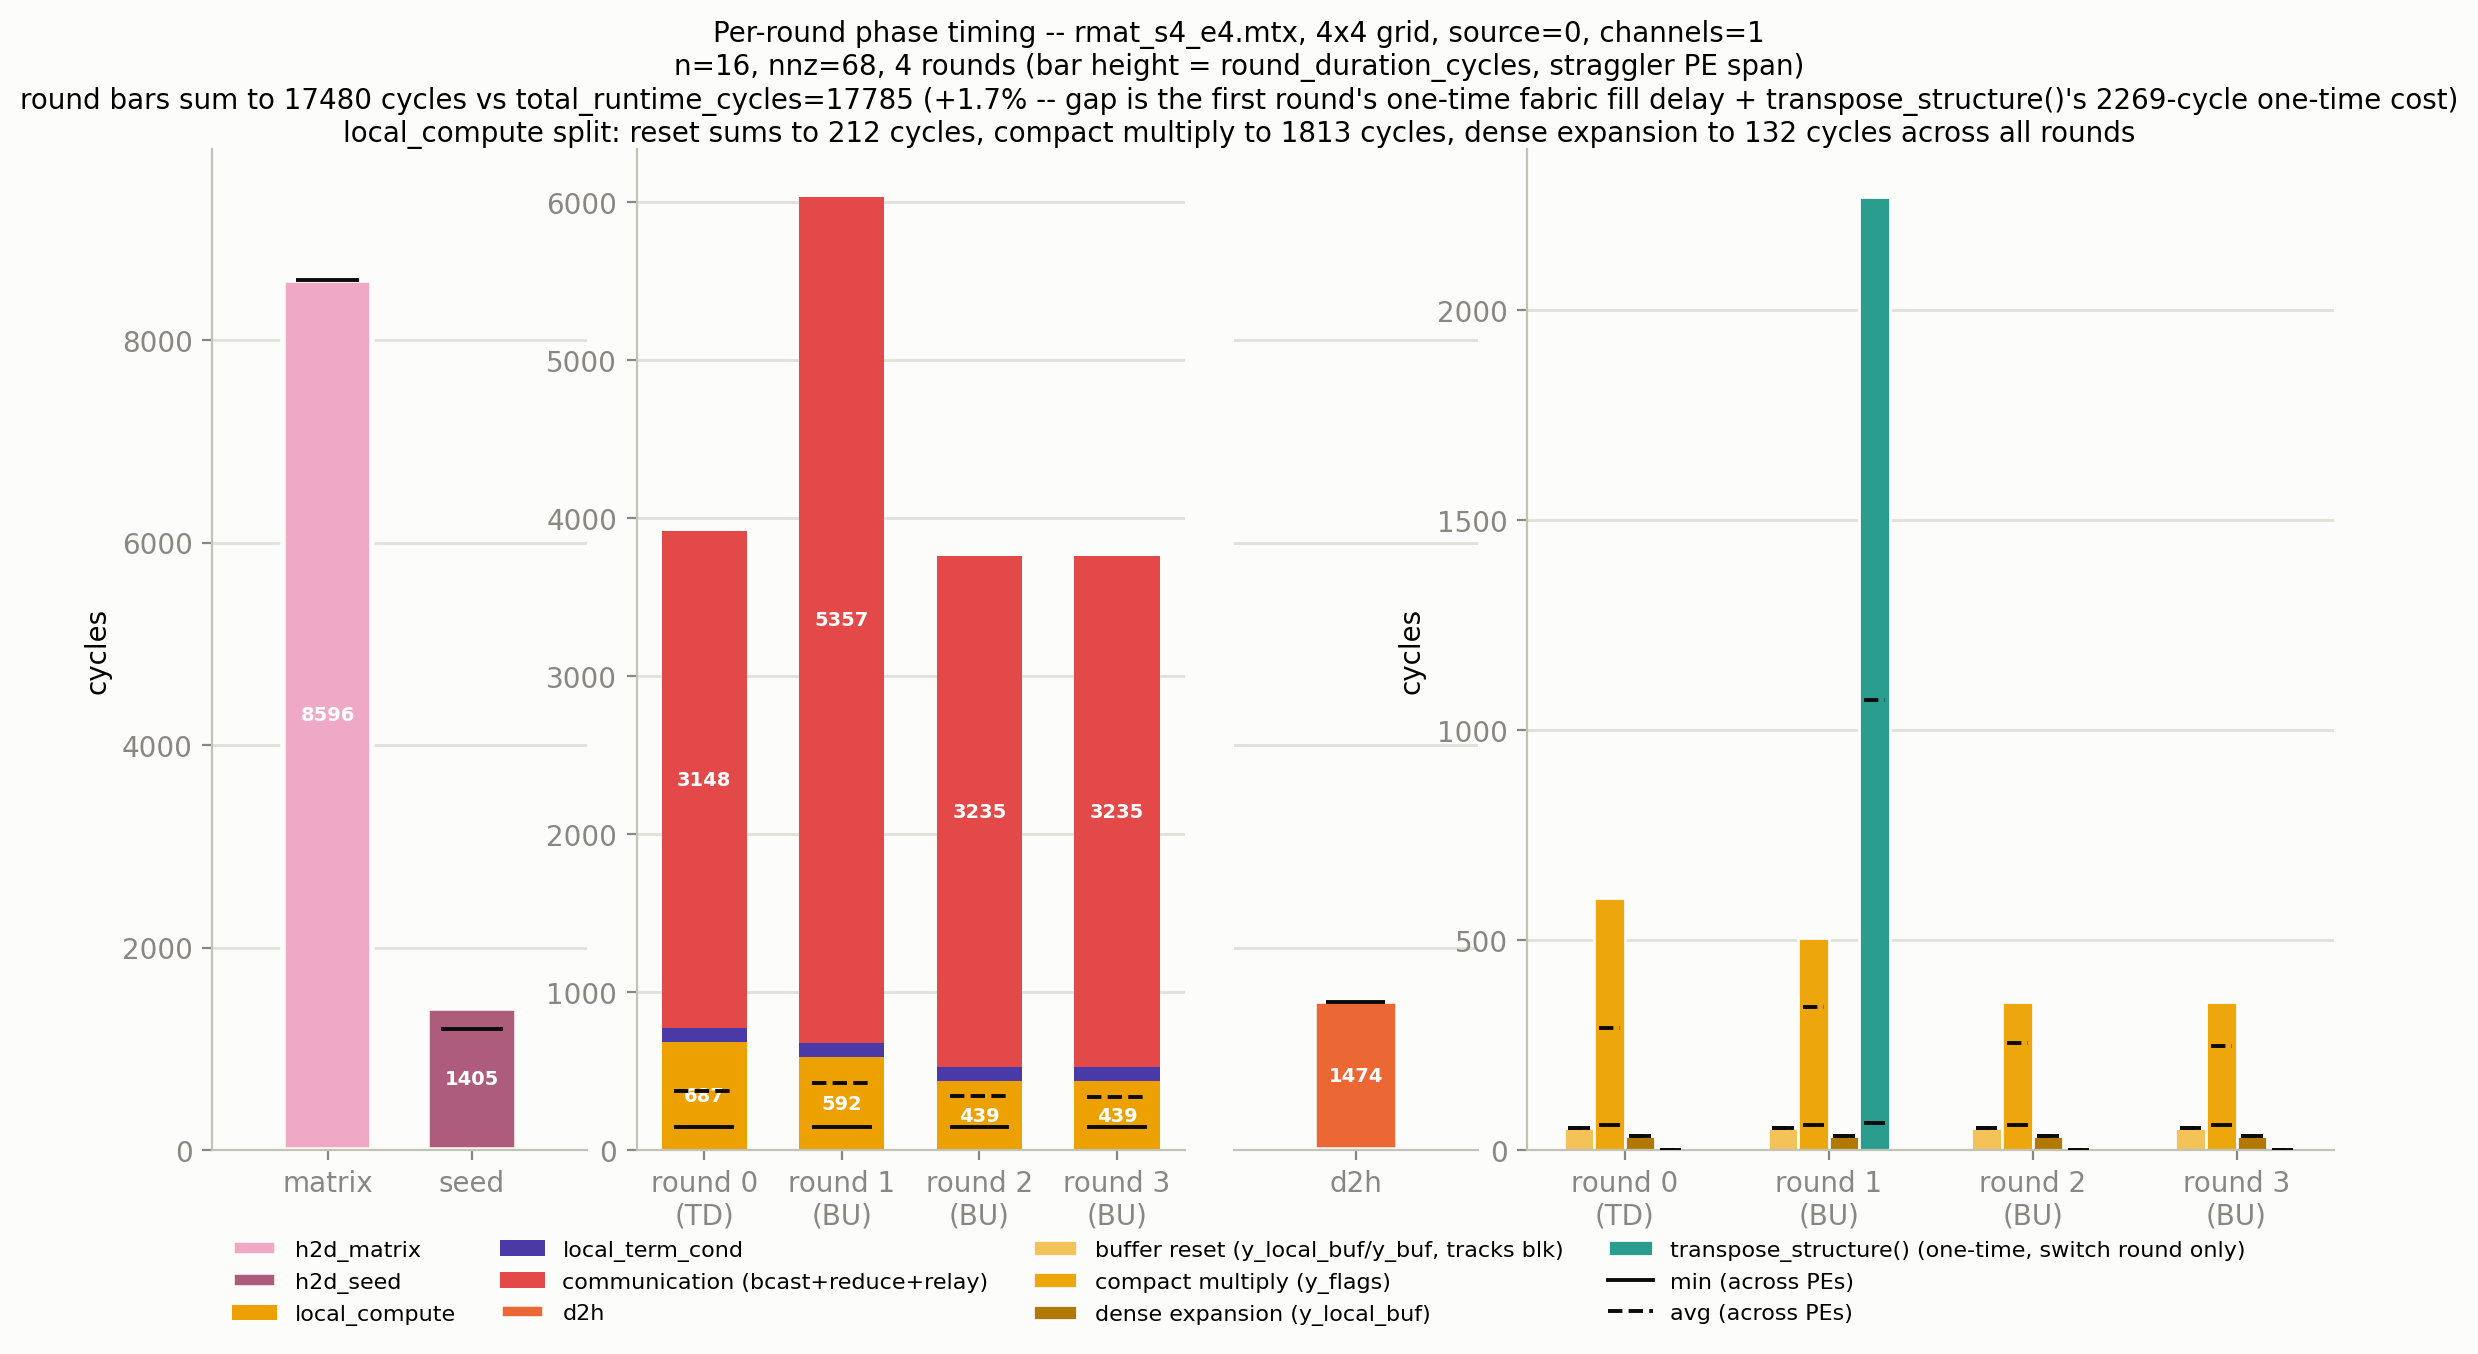
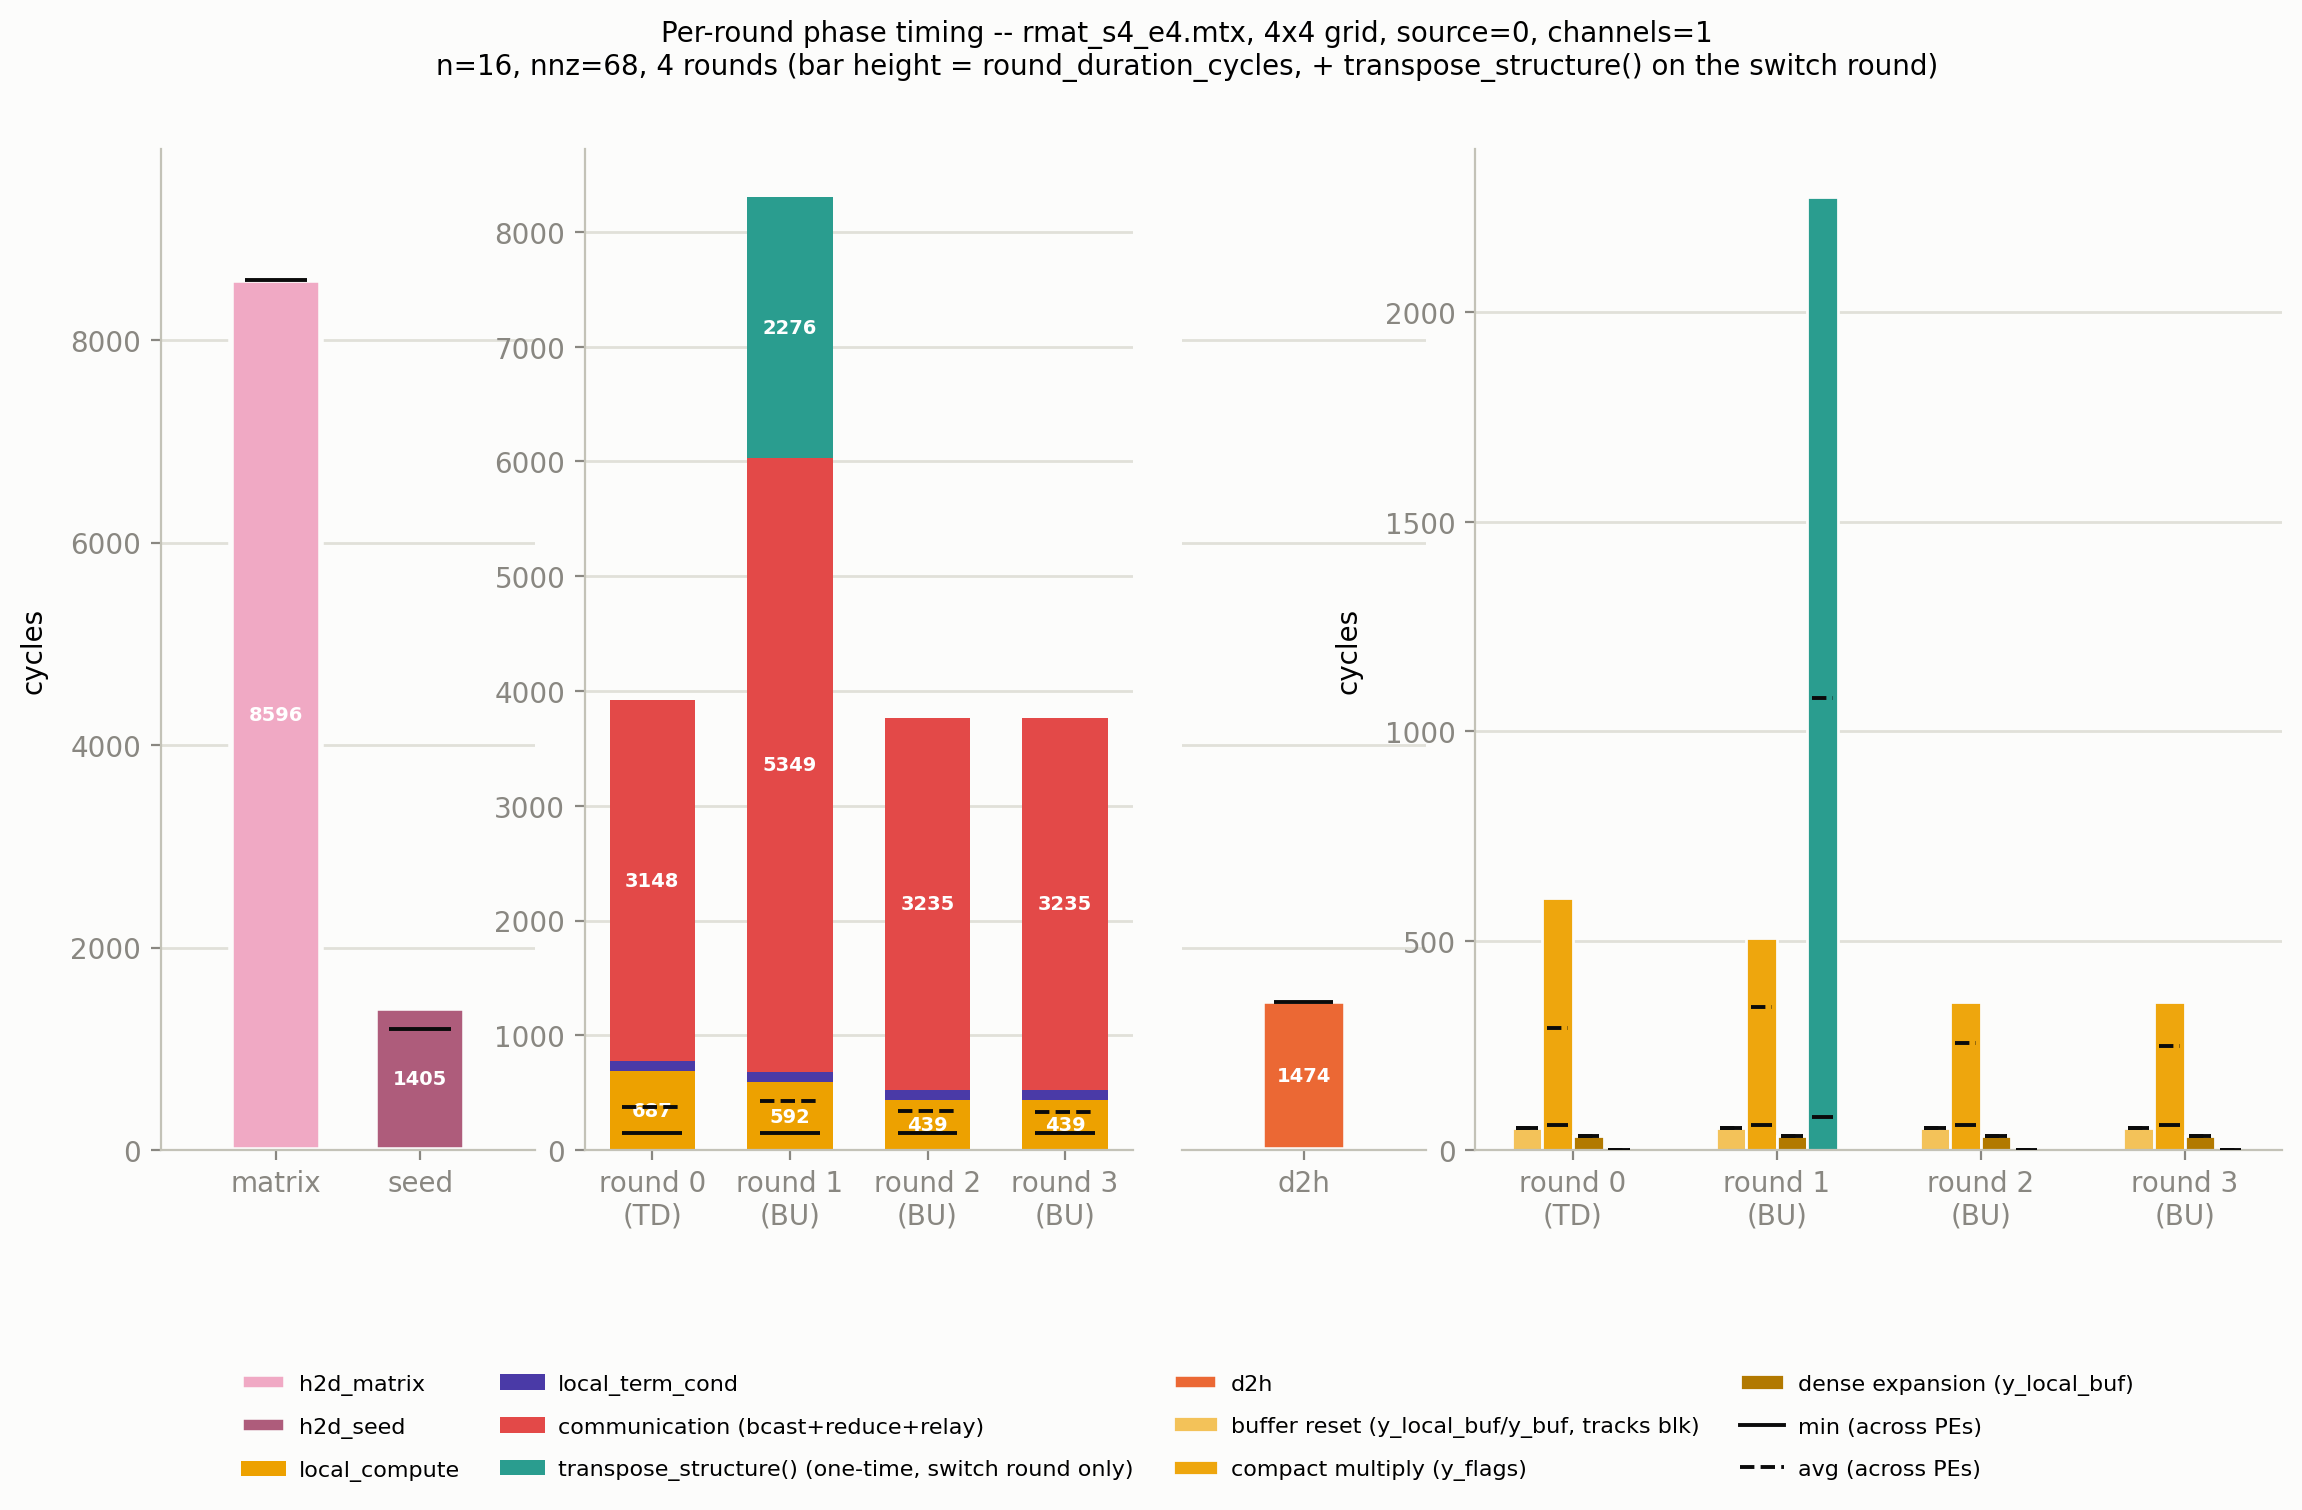
[add] updated timings plot

diff --git a/spmv-hypersparse/bool_diag_spmv/plots/plot_bfs_timing.py b/spmv-hypersparse/bool_diag_spmv/plots/plot_bfs_timing.py
@@ -31,11 +31,15 @@
   [local_compute, local_term_cond, communication] order purely for a
   stable, readable legend, not to claim a literal timeline.
 
-  The suptitle also reports `total_runtime_cycles` (the straggler-PE span
-  from round 0's very first TS_VBCAST_ISSUE to the last round's
-  TS_TERM_COL_BCAST_DONE) next to the sum of the round bars, as a sanity
-  check -- they should be close (the gap is just the first broadcast's own
-  one-time fabric fill delay, not per-round recurring cost).
+  total_runtime_cycles (the straggler-PE span from round 0's very first
+  TS_VBCAST_ISSUE to the last round's TS_TERM_COL_BCAST_DONE) is still in
+  bfs_timing.csv, just not compared against the round bars' own sum in the
+  suptitle any more -- that comparison is inherently noisy once a phase
+  with wide per-PE variance (transpose_structure()) is involved, since each
+  bar segment here is its own independent max-across-PEs and can come from
+  a different PE than total_runtime_cycles' one coherent straggler (see
+  run_gap_diagnostic.py for a worked confirmation this isn't double-
+  counting, just that mismatch).
 
   local_compute's own segment additionally gets two tick-mark indicators
   (solid = min, dashed = avg, both across PEs that round) on top of its
@@ -156,6 +160,16 @@ LOCAL_COMPUTE_SPLIT_PARTS = ["local_compute_reset", "local_compute_compact", "lo
 # bar is empty everywhere but that one round.
 TRANSPOSE_COLOR = "#2a9d8f"  # teal -- distinct from every other hue family in use
 
+# Also stacked directly onto the round-bars panel's own switch-round bar
+# (see plot_timing_row) -- round_duration_cycles (what those bars are built
+# from) brackets TS_VBCAST_ISSUE..TS_TERM_COL_BCAST_DONE, which does NOT
+# span transpose_structure()'s own gap (see bool_pe.csl's
+# term_col_bcast_done()), so without this the round bars would visibly sum
+# to less than total_runtime_cycles -- an unaccounted-for gap the reader
+# has no way to attribute from the bars alone, title text notwithstanding.
+ROUND_SEGMENT_COLORS["transpose"] = TRANSPOSE_COLOR
+ROUND_SEGMENT_LABELS["transpose"] = "transpose_structure() (one-time, switch round only)"
+
 COMPUTE_SPLIT_PARTS = LOCAL_COMPUTE_SPLIT_PARTS + ["transpose"]
 COMPUTE_SPLIT_COLORS = dict(zip(
     LOCAL_COMPUTE_SPLIT_PARTS,
@@ -225,7 +239,6 @@ def plot_timing_row(row, out_path):
   channels = row["channels"]
 
   round_duration = parse_cycle_list(row["round_duration_cycles"]).astype(float)
-  total_runtime_cycles = int(row["total_runtime_cycles"])
   assert len(round_duration) == rounds_completed, (
       f"round_duration_cycles has {len(round_duration)} entries, expected "
       f"rounds_completed={rounds_completed}")
@@ -315,10 +328,15 @@ def plot_timing_row(row, out_path):
   ax_d2h.set_xticklabels(["d2h"])
 
   bottom = np.zeros(rounds_completed)
+  transpose_heights = compute_split_stats["transpose"]["max"]
   segment_values = {
       "local_compute": local_compute,
       "local_term_cond": local_term_cond,
       "communication": communication,
+      # stacked last (zero-height, hence invisible, on every round except
+      # the switch round) -- see ROUND_SEGMENT_COLORS["transpose"]'s own
+      # comment for why this needs to be here at all.
+      "transpose": transpose_heights,
   }
   for name, heights in segment_values.items():
     color = ROUND_SEGMENT_COLORS[name]
@@ -403,30 +421,12 @@ def plot_timing_row(row, out_path):
     if not (fits_w and fits_h):
       txt.remove()
 
-  ax_h2d.set_ylabel("cycles")
-  ax_compute.set_ylabel("cycles")
-  reset_total = int(compute_split_stats["local_compute_reset"]["max"].sum())
-  compact_total = int(compute_split_stats["local_compute_compact"]["max"].sum())
-  expand_total = int(compute_split_stats["local_compute_expand"]["max"].sum())
-  transpose_total = int(compute_split_stats["transpose"]["max"].sum())
-  sum_rounds = int(round_duration.sum())
-  diff_pct = 100.0 * (total_runtime_cycles - sum_rounds) / total_runtime_cycles
-  # transpose_structure() runs strictly between one round's own
-  # TERM_COL_BCAST_DONE and the next round's VBCAST_ISSUE (see bool_pe.csl's
-  # term_col_bcast_done()) -- outside every round's own bar span, so it's
-  # folded into this same gap alongside the first round's one-time fabric
-  # fill delay, not double-subtracted from round_duration_cycles.
-  gap_note = ("gap is the first round's one-time fabric fill delay"
-              + (f" + transpose_structure()'s {transpose_total}-cycle one-time cost"
-                 if transpose_total > 0 else ""))
+  ax_h2d.set_ylabel("cycles", labelpad=8)
+  ax_compute.set_ylabel("cycles", labelpad=8)
   fig.suptitle(f"Per-round phase timing -- {matrix}, {pe_grid} grid, source={source}, "
                f"channels={channels}\n"
                f"n={row['n']}, nnz={row['nnz']}, {rounds_completed} rounds "
-               "(bar height = round_duration_cycles, straggler PE span)\n"
-               f"round bars sum to {sum_rounds} cycles vs total_runtime_cycles={total_runtime_cycles} "
-               f"({diff_pct:+.1f}% -- {gap_note})\n"
-               f"local_compute split: reset sums to {reset_total} cycles, compact multiply to "
-               f"{compact_total} cycles, dense expansion to {expand_total} cycles across all rounds",
+               "(bar height = round_duration_cycles, + transpose_structure() on the switch round)",
                fontsize=10)
   for ax in (ax_h2d, ax_rounds, ax_d2h, ax_compute):
     ax.spines["top"].set_visible(False)
@@ -451,9 +451,15 @@ def plot_timing_row(row, out_path):
     labels += l
   handles += STAT_TICK_HANDLES
   labels += [h.get_label() for h in STAT_TICK_HANDLES]
+  # "transpose_structure()" is drawn on both ax_rounds (stacked segment)
+  # and ax_compute (grouped bar) with the same label -- de-dupe by label
+  # text (preserving first-seen order) so it isn't listed twice.
+  seen = set()
+  deduped = [(h, l) for h, l in zip(handles, labels) if not (l in seen or seen.add(l))]
+  handles, labels = [list(t) for t in zip(*deduped)]
   fig.legend(handles, labels, loc="lower center", ncol=4, frameon=False, fontsize=8,
-             bbox_to_anchor=(0.5, -0.04))
-  plt.tight_layout(rect=[0, 0.18, 1, 0.90])
+             bbox_to_anchor=(0.5, -0.16), columnspacing=1.8, handletextpad=0.6, labelspacing=1.0)
+  plt.tight_layout(rect=[0, 0.26, 1, 0.93])
 
   os.makedirs(os.path.dirname(os.path.abspath(out_path)), exist_ok=True)
   plt.savefig(out_path, dpi=200, bbox_inches="tight")
